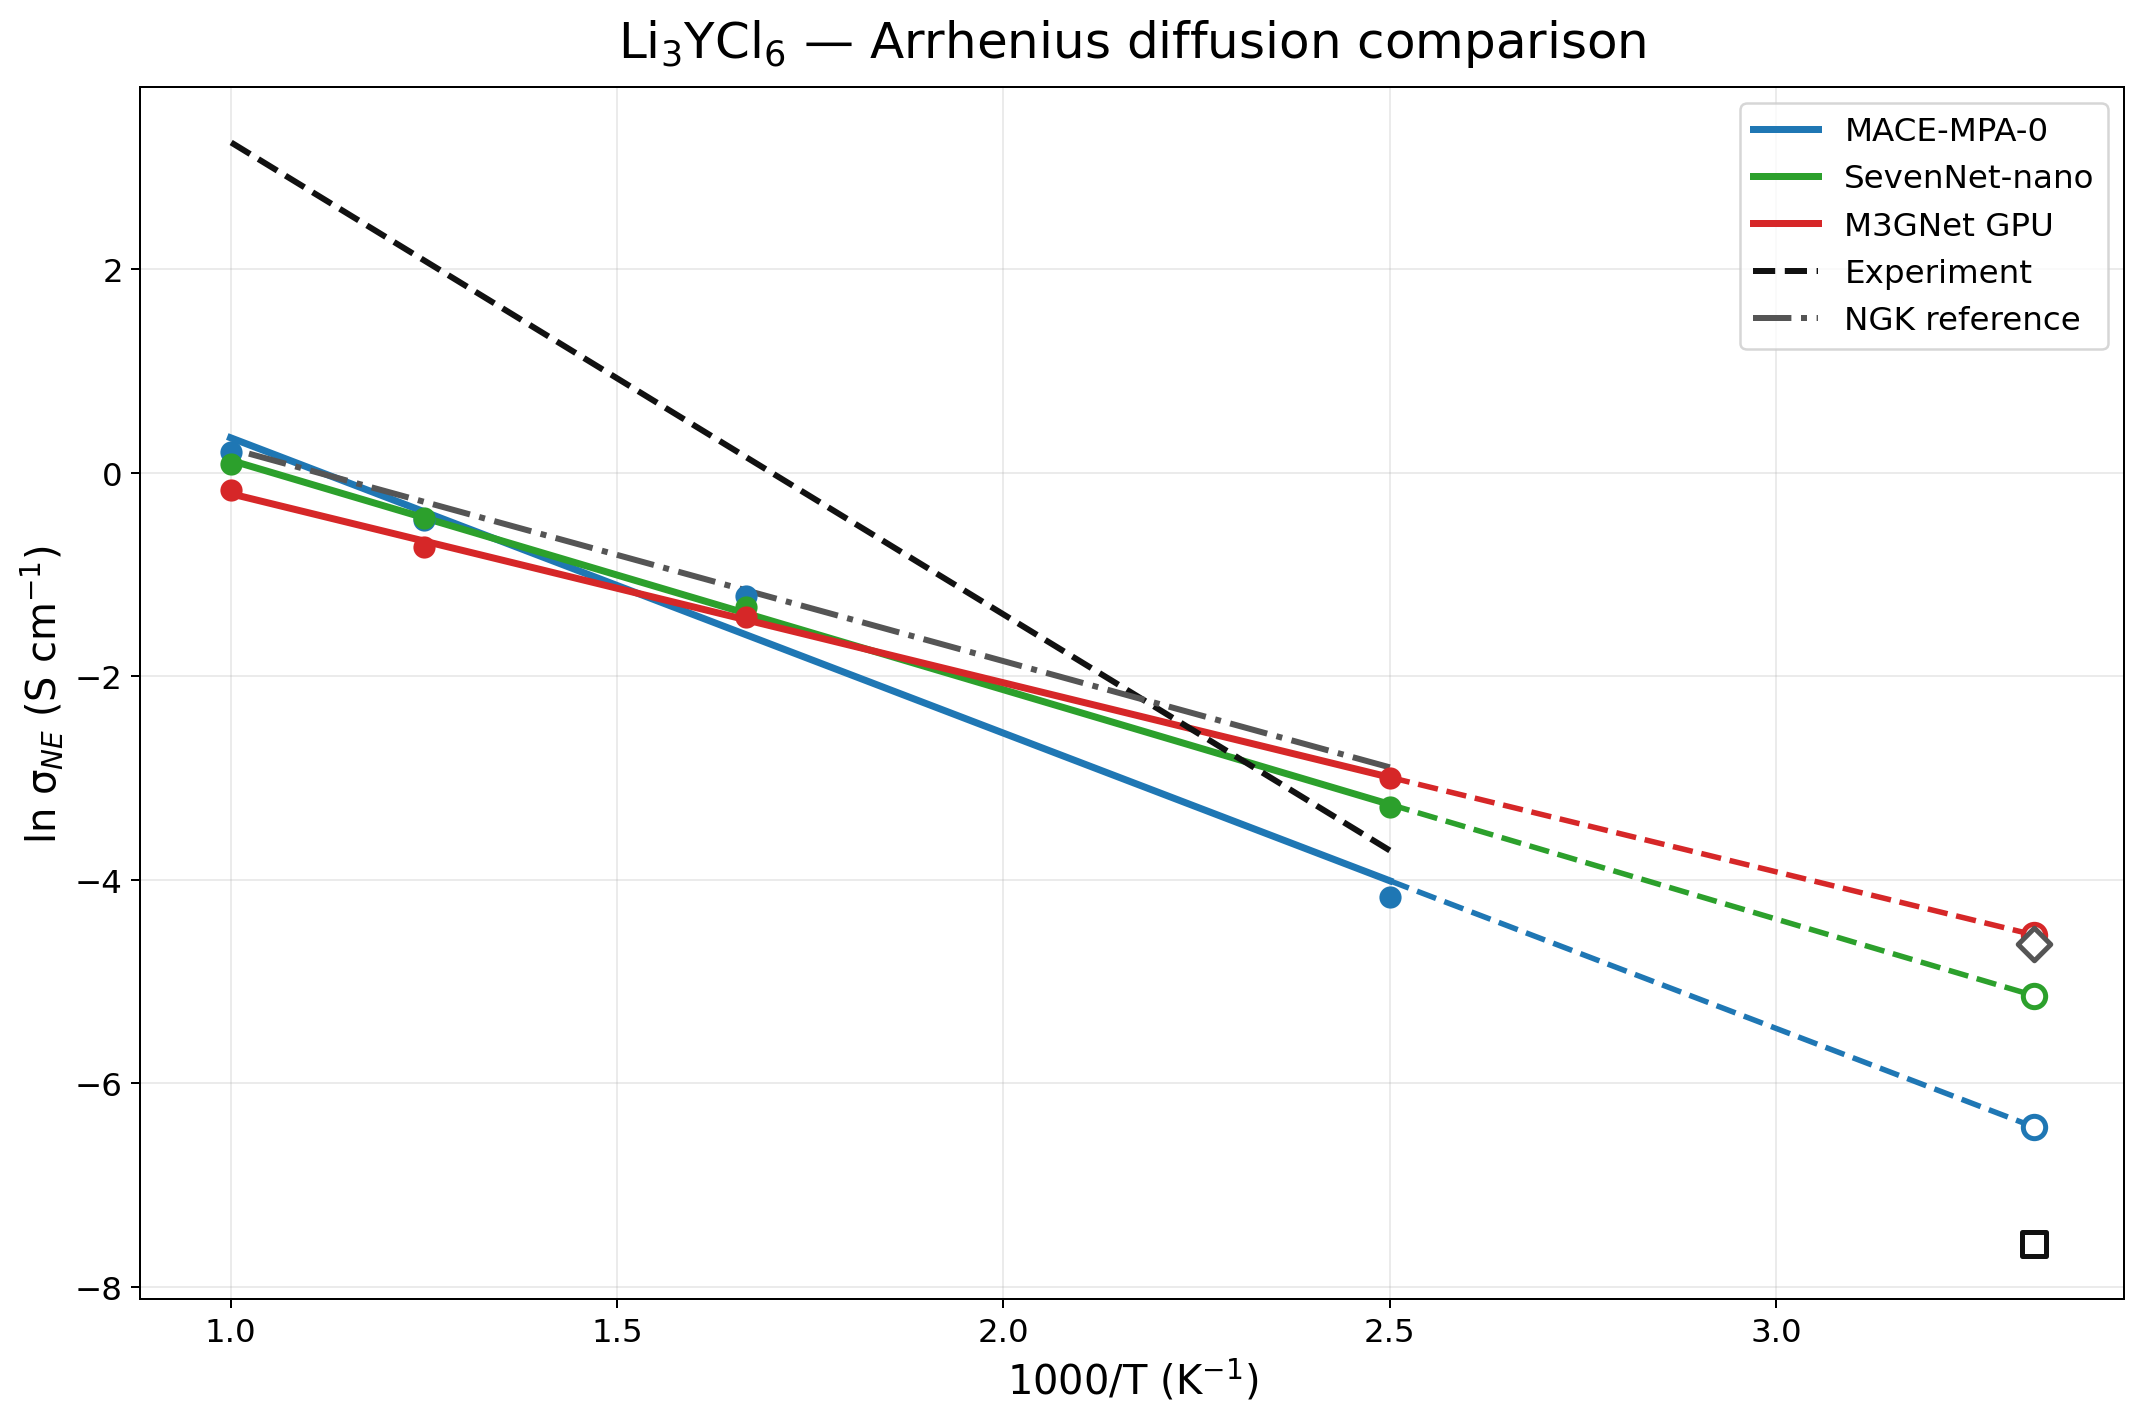
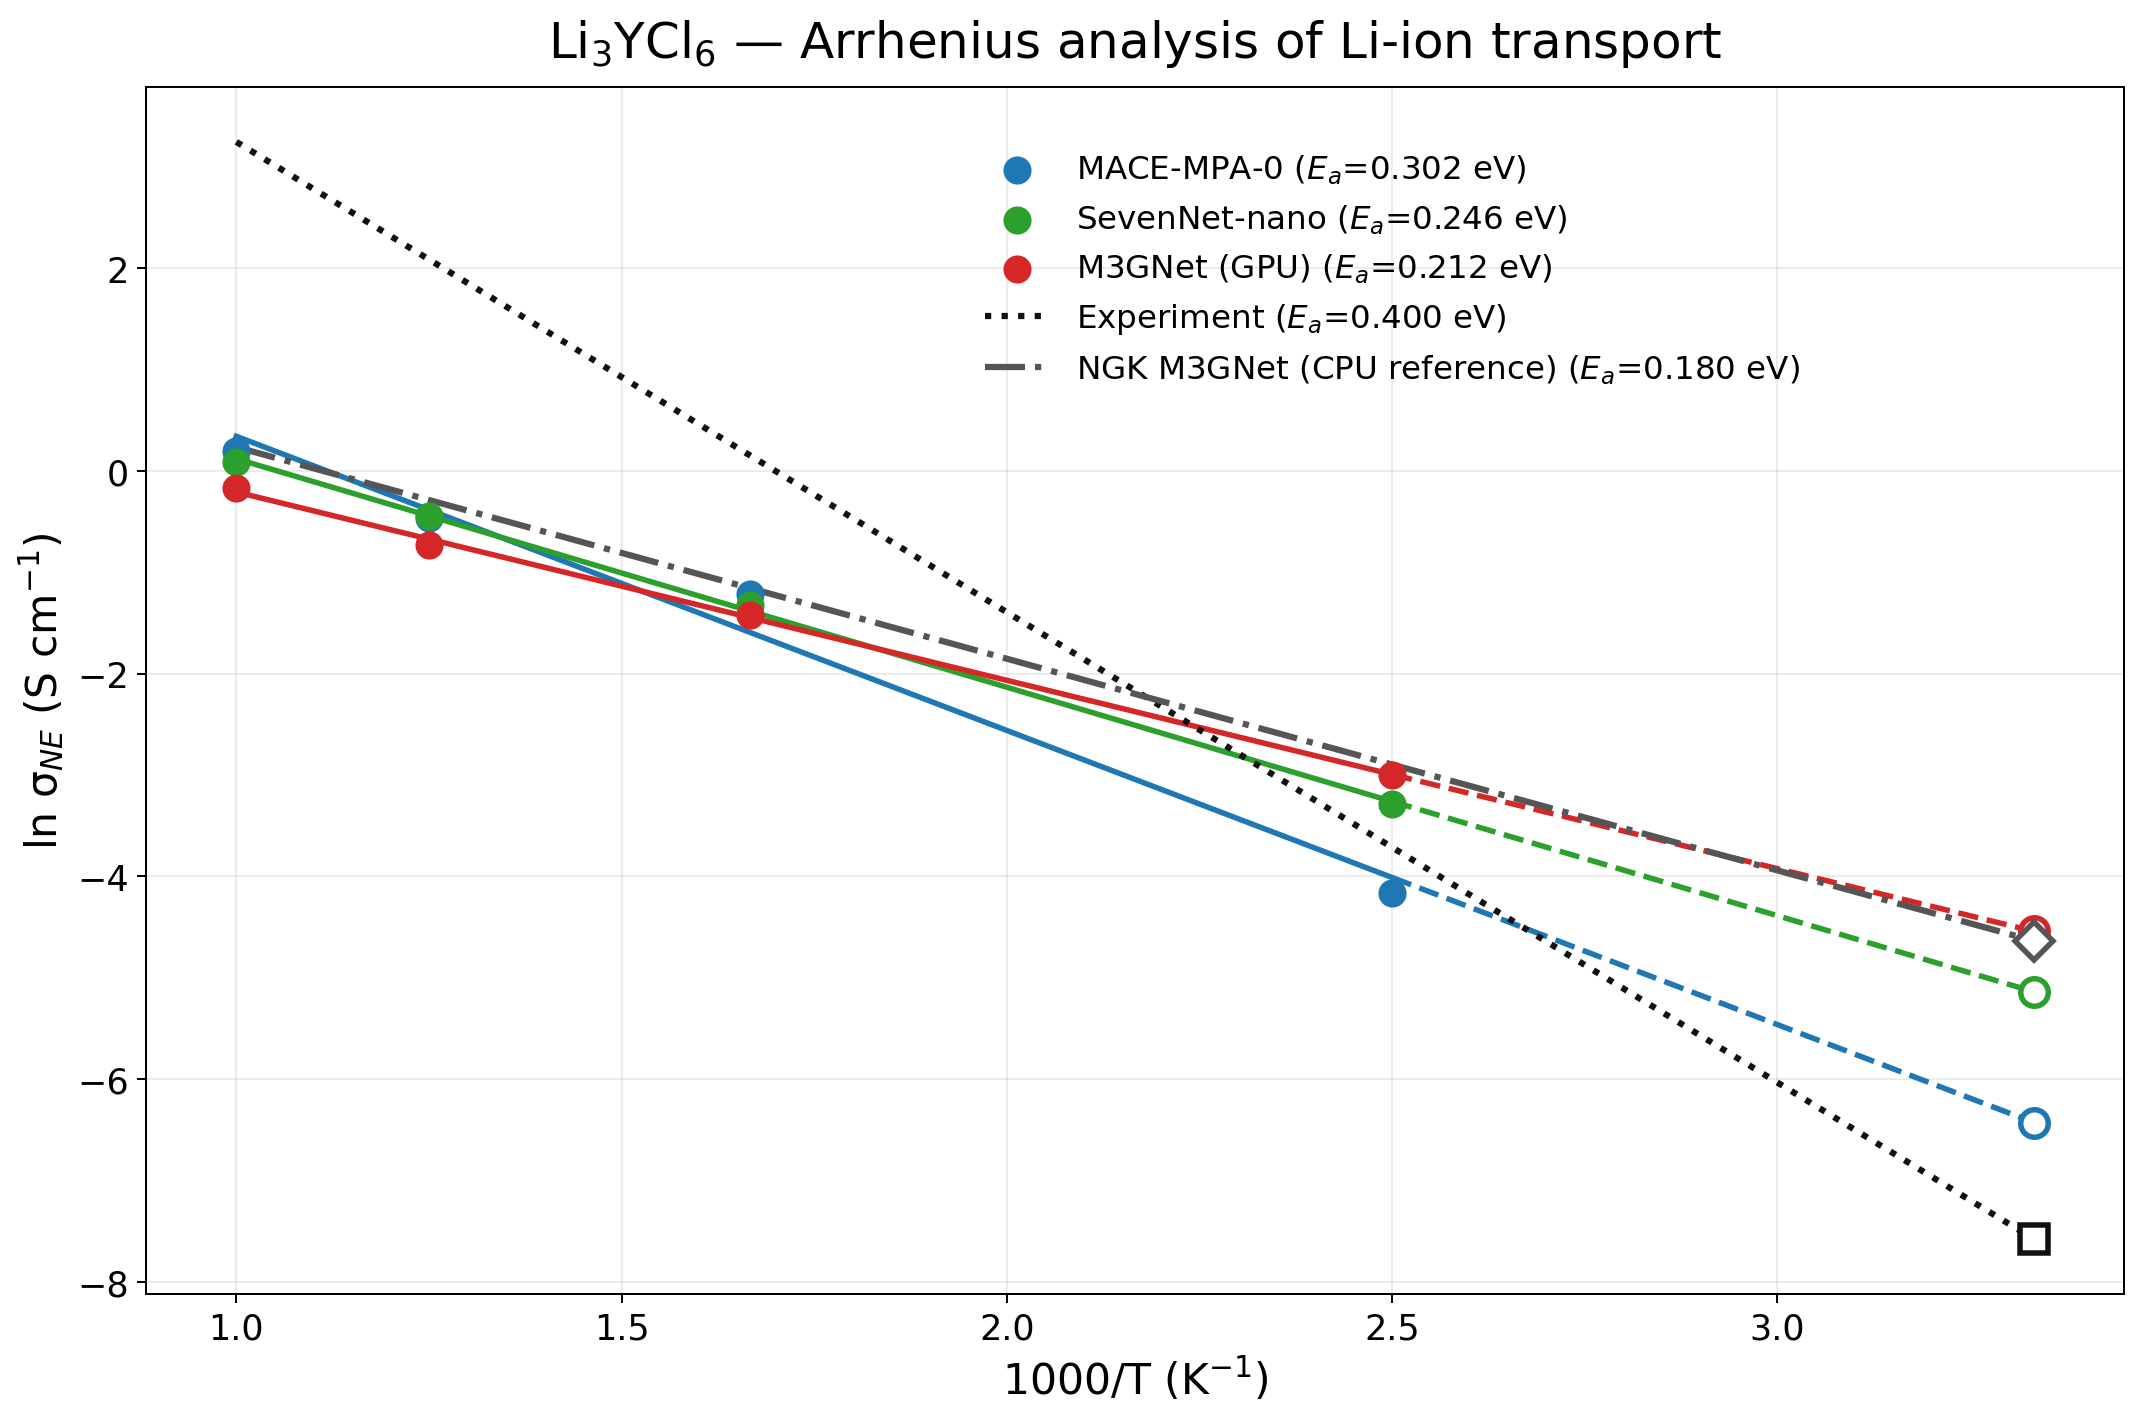
Match Arrhenius figure to midterm style

diff --git a/src/li_research/analysis/arrhenius/plot_li3ycl6_arrhenius_midterm.py b/src/li_research/analysis/arrhenius/plot_li3ycl6_arrhenius_midterm.py
@@ -1,0 +1,52 @@
+"""Generate the formal Li3YCl6 midterm Arrhenius figure."""
+from pathlib import Path
+import numpy as np
+import matplotlib.pyplot as plt
+
+ROOT = Path(__file__).resolve().parents[4]
+OUTS = [
+    ROOT / "results/midterm_Li3YCl6_MACE_M3GNet/plots/Li3YCl6_Arrhenius_all_models.png",
+    ROOT / "results/publication_all_materials/arrhenius/Li3YCl6_Arrhenius_all_models.png",
+]
+T = np.array([400., 600., 800., 1000.])
+x = 1000.0 / T
+kB = 8.617333262e-5
+models = [
+    ("MACE-MPA-0", np.array([0.01551425, 0.29804109, 0.62695216, 1.22489997]), 0.302, "#1f77b4"),
+    ("SevenNet-nano", np.array([0.0373838538, 0.2664585555, 0.6438489943, 1.0921416519]), 0.246, "#2ca02c"),
+    ("M3GNet (GPU)", np.array([0.0499968539, 0.2422683654, 0.4811228915, 0.8433514808]), 0.212, "#d62728"),
+]
+
+fig, ax = plt.subplots(figsize=(12, 8), dpi=180)
+for name, sigma, ea, color in models:
+    y = np.log(sigma)
+    slope, intercept = np.polyfit(x, y, 1)
+    xx = np.linspace(x.min(), x.max(), 200)
+    ax.plot(xx, slope * xx + intercept, color=color, lw=2.2)
+    ax.scatter(x, y, color=color, s=105, zorder=3,
+               label=fr"{name} ($E_a$={ea:.3f} eV)")
+    x300 = 1000.0 / 300.0
+    y300 = slope * x300 + intercept
+    ax.plot([x.max(), x300], [slope * x.max() + intercept, y300], color=color, lw=2.2, ls="--")
+    ax.plot(x300, y300, marker="o", ms=11, mfc="white", mec=color, mew=2.2)
+
+references = [
+    ("Experiment", 5.1e-4, 0.400, "#111111", "s", ":"),
+    ("NGK M3GNet (CPU reference)", 9.69e-3, 0.180, "#555555", "D", "-.")
+]
+xx = np.linspace(1.0, 1000.0 / 300.0, 250)
+for name, sigma300, ea, color, marker, ls in references:
+    y300 = np.log(sigma300)
+    yline = y300 - (ea / kB) * (xx / 1000.0 - 1.0 / 300.0)
+    ax.plot(xx, yline, color=color, lw=2.5, ls=ls, label=fr"{name} ($E_a$={ea:.3f} eV)")
+    ax.plot(1000.0 / 300.0, y300, marker=marker, ms=11, mfc="white", mec=color, mew=2.2)
+
+ax.set_title(r"Li$_3$YCl$_6$ — Arrhenius analysis of Li-ion transport", fontsize=20, pad=12)
+ax.set_xlabel(r"1000/T (K$^{-1}$)", fontsize=17)
+ax.set_ylabel(r"ln σ$_{NE}$ (S cm$^{-1}$)", fontsize=17)
+ax.tick_params(labelsize=14)
+ax.grid(True, alpha=0.23)
+ax.legend(fontsize=13, loc="upper center", bbox_to_anchor=(0.63, 0.97), frameon=False)
+fig.tight_layout()
+for out in OUTS:
+    fig.savefig(out, bbox_inches="tight")
